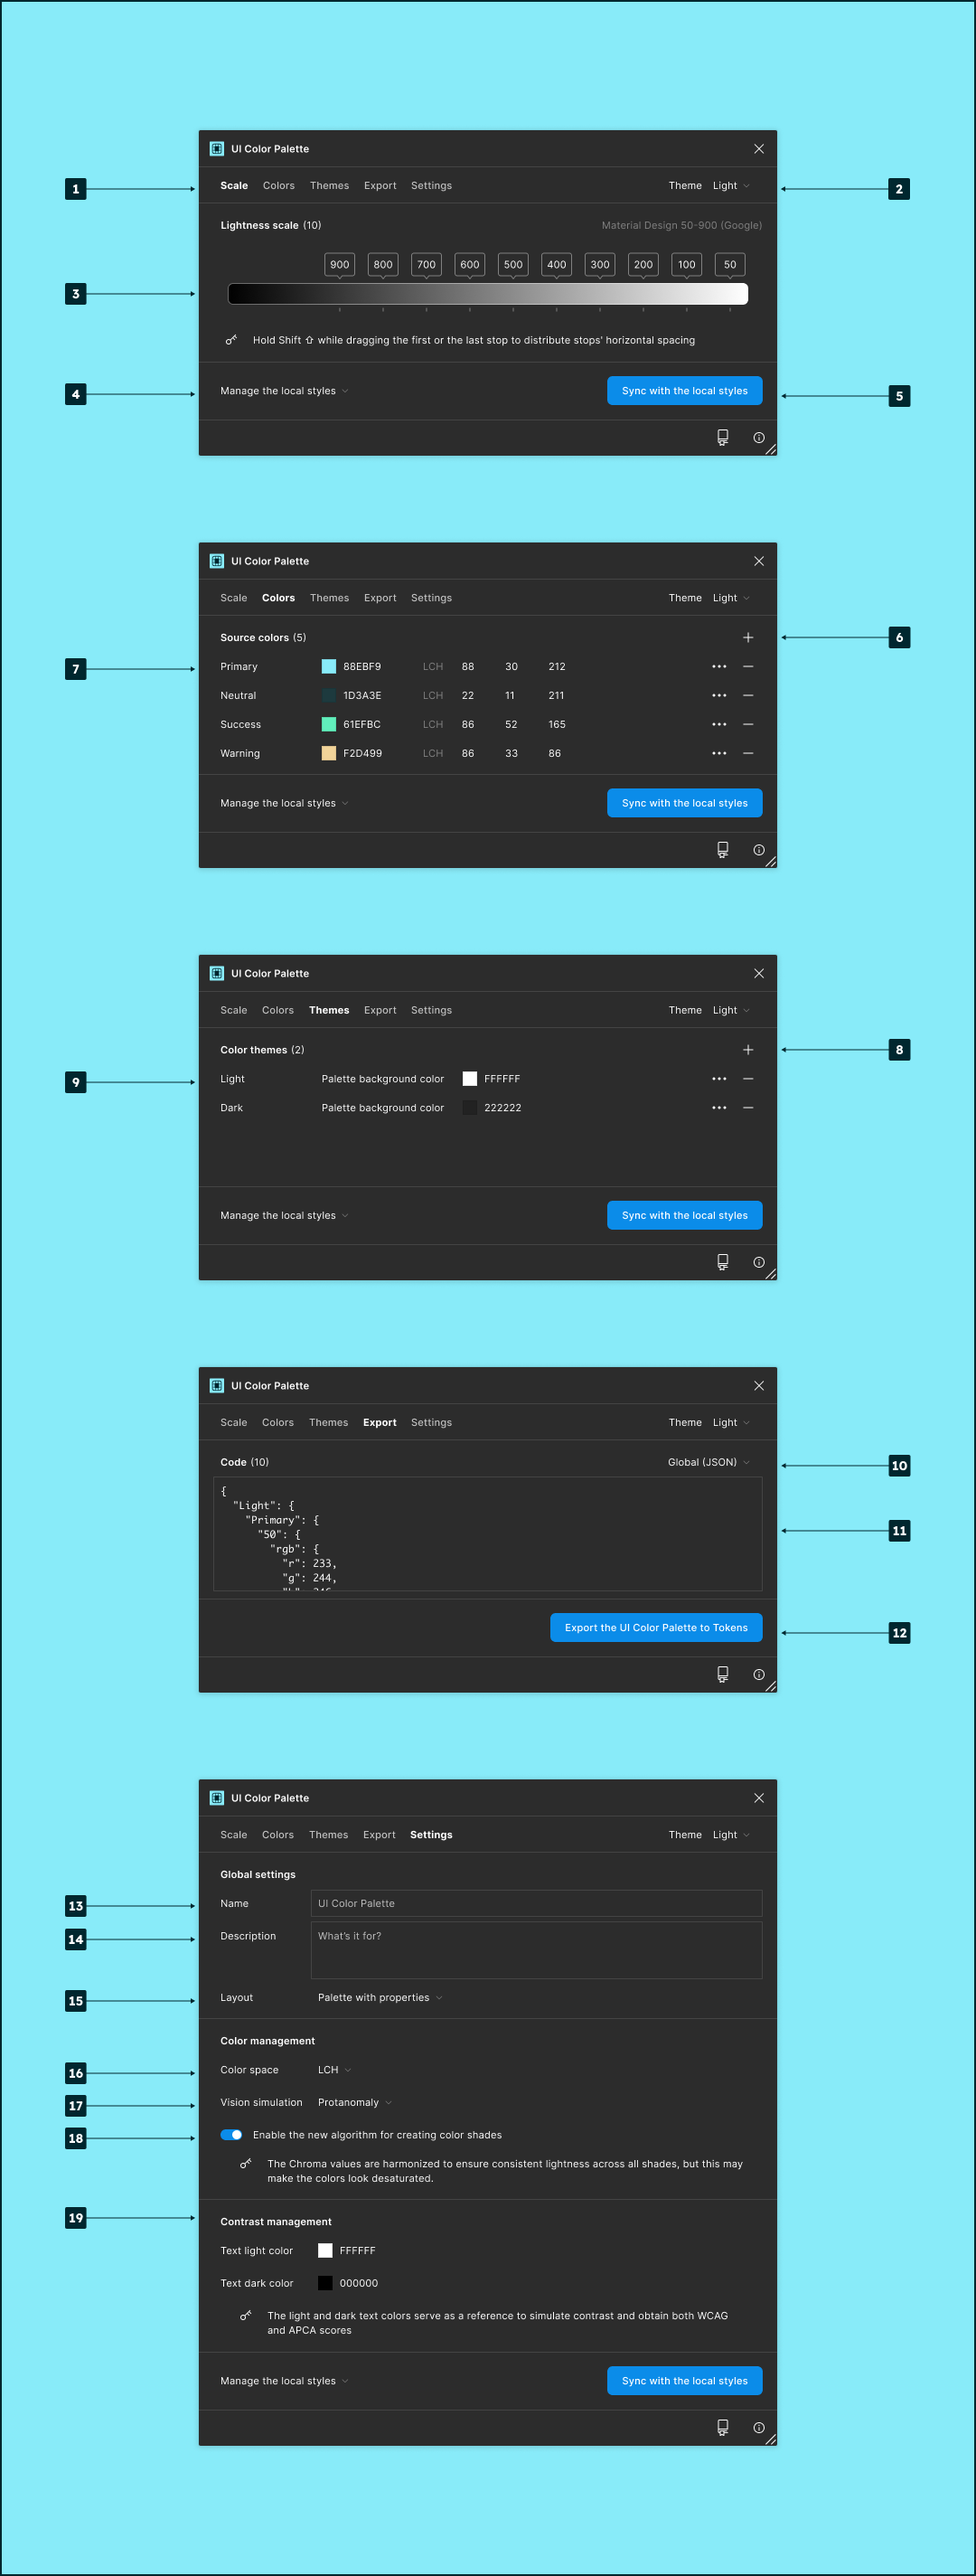
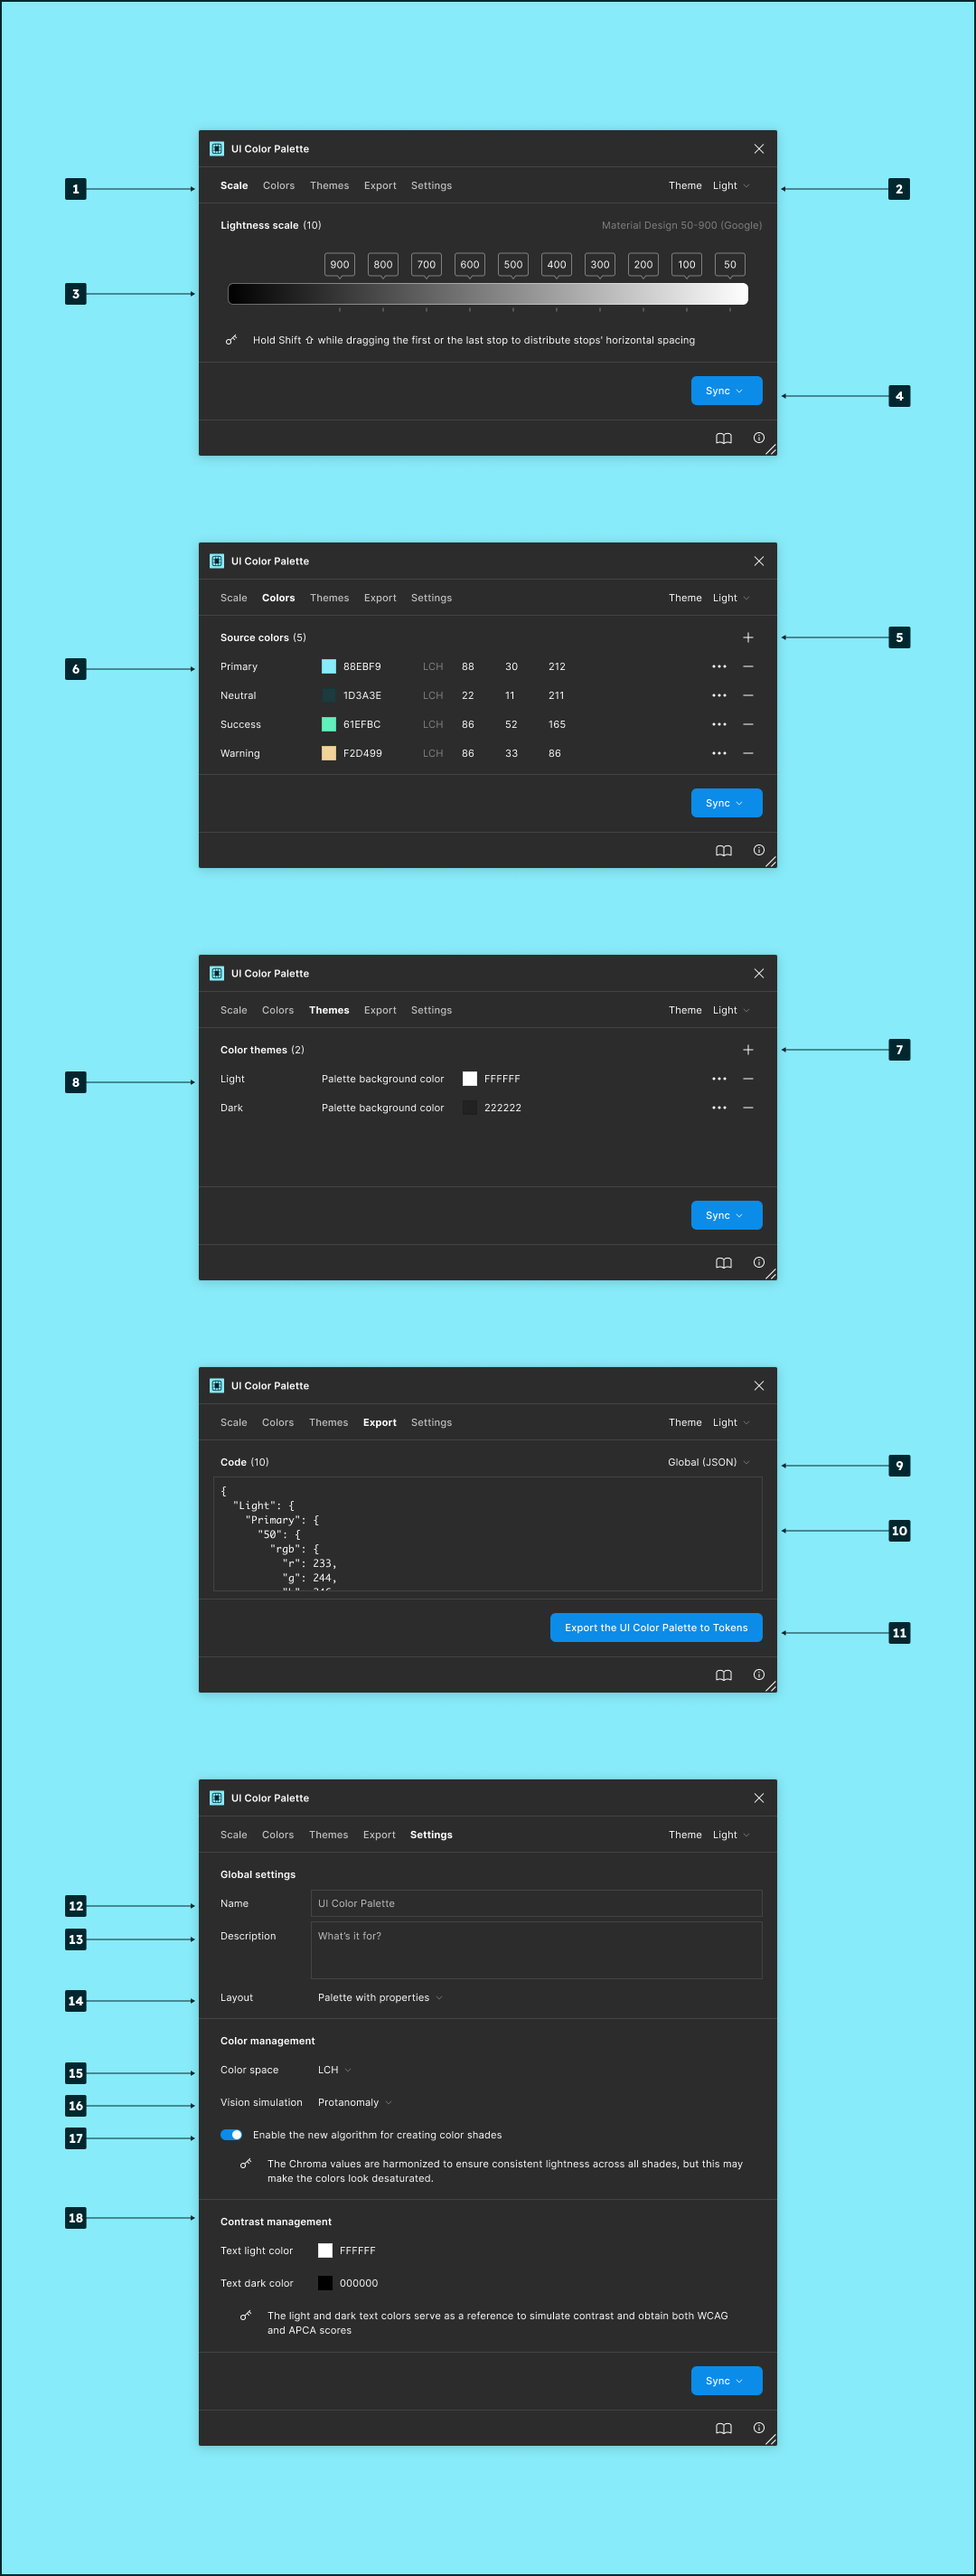
GITBOOK-33: V31

diff --git a/release-notes/ui-color-palette-31.md b/release-notes/ui-color-palette-31.md
@@ -1,0 +1,52 @@
+---
+description: Enter Dev Mode
+layout: landing
+---
+
+# UI Color Palette 31
+
+## Key Feature
+
+{% embed url="https://drive.google.com/open?id=1--9Ci4tf-DdwPz8MR1UVW0gk7UHfHeJw&usp=drive_fs" %}
+
+We have introduced the ability to export with Dev Mode. This feature allows users to export their work in a seamless and efficient manner. This is compatible with the Figma Desktop App, Browser App, and VS Code via the Figma extension!
+
+{% embed url="https://drive.google.com/open?id=1-5v5f1XQtOLIe-HkRa16hKeP51OybgTH&usp=drive_fs" %}
+
+## Improvements
+
+### 7 Day Trial Period
+
+<figure><img src="../.gitbook/assets/release_note-trial_extension.png" alt=""><figcaption></figcaption></figure>
+
+We've confidently extended the trial period to an entire week. This empowers users with ample time to explore the premium features and cement their workflows.
+
+### Import from Realtime Colors
+
+<figure><img src="../.gitbook/assets/release_note-realtime_colors.png" alt=""><figcaption></figcaption></figure>
+
+We've introduced a feature that allows users to import from Realtime Colors. This addition streamlines the process of incorporating color variations into their color references document and scaling them to a color system.
+
+## Minor Changes
+
+* A new feature allows users to specify various types of color blindness, enhancing design accessibility.
+* A dual-action button has been added, providing more functionality and control.
+* Users can now reorder their shortcuts, aiding efficiency and productivity.
+* We've enabled export to HSL, for work in the HSL color model.
+* The code zone's scroll resets after a format change, ensuring users start at the top.
+
+## Bug Fixes
+
+* A bug which interfered with palette creation using parameters has been fixed. This ensures that palette creation can proceed without problems.
+
+***
+
+Also, we want to remind you that we're always listening to your [feedback and suggestions](https://uicp.link/feedback), and we've made sure to incorporate your most recent feedback into these updates to ensure that they're tailored to your needs.
+
+You can now start a discussion to share your practices, write feedback, help the community, etc. [Get ready to write a topic!](https://uicp.link/discuss)
+
+Besides, you can always get support by sending us an email at [hello@ui-color-palette.com](mailto:hello@ui-color-palette.com) and help us improve the quality of UI Color Palette by [reporting a bug](https://uicp.link/report).
+
+Enjoy your updated UI Color Palette!
+
+UI Color Palette Team

diff --git a/edit-a-color-palette/overview.md b/edit-a-color-palette/overview.md
@@ -14,12 +14,11 @@ description: A quick glance at the controller
    5. `Settings`: Palette configuration.
 2. Select a configured `Color theme`.
 3. Adjust the `Lightness scale`'s stops.
-4. Select the action:
-   1. `Manage the local styles`: Sync the color shades with the document's local styles.
-   2. `Manage the local variables`: Sync the color shades with the documents' local variables.
-5. Create or update local styles or variables.
-6. Add a new color to the palette.
-7. Adjust the `Source colors` (from the left to the right):
+4. Run the action:
+   1. `Sync the local styles`: Sync the color shades with the document's local styles.
+   2. `Sync the local variables`: Sync the color shades with the documents' local variables.
+5. Add a new color to the palette.
+6. Adjust the `Source colors` (from the left to the right):
    1. Color name
    2. Hexadecimal code
    3. LCH
@@ -27,20 +26,20 @@ description: A quick glance at the controller
    5. Remove
    6. Hue range shifting
    7. Description
-8. Add a new theme to the palette.
-9. Adjust the `Color themes` (from the left to the right):
+7. Add a new theme to the palette.
+8. Adjust the `Color themes` (from the left to the right):
    1. Theme name
    2. Palette background color
    3. Advanced options
    4. Remove
    5. Description
-10. Export `File format`.
-11. Export `Preview`.
-12. Export the palette to the local machine.
-13. Change the palette `Name`.
-14. Change the palette `Description`.
-15. Change the palette `Layout`.
-16. Select the `Color space`.
-17. Select a `Vision simulation`.
-18. Turn color shades into new ones using the latest algorithm.
-19. Adjust the `Text light color` and `Text dark color` on the color shades.
+9. Export file format.
+10. Export preview.
+11. Export the palette to the local machine.
+12. Change the palette `Name`.
+13. Change the palette `Description`.
+14. Change the palette `Layout`.
+15. Select the `Color space`.
+16. Select a `Vision simulation`.
+17. Turn color shades into new ones using the latest algorithm.
+18. Adjust the `Text light color` and `Text dark color` on the color shades.

diff --git a/SUMMARY.md b/SUMMARY.md
@@ -28,6 +28,7 @@
 
 ## Publish and transfer a color palette
 
+* [Overview](publish-and-transfer-a-color-palette/overview.md)
 * [Sync the palette to the local styles](publish-and-transfer-a-color-palette/sync-the-palette-to-the-local-styles.md)
 * [Sync the palette to the local variables・Pro](publish-and-transfer-a-color-palette/sync-the-palette-to-the-local-variables-pro.md)
 * [Export the palette](publish-and-transfer-a-color-palette/export-the-palette.md)
@@ -47,3 +48,4 @@
   * [UI Color Palette 28](release-notes/ui-color-palette-28.md)
   * [UI Color Palette 29](release-notes/ui-color-palette-29.md)
   * [UI Color Palette 30](release-notes/ui-color-palette-30.md)
+  * [UI Color Palette 31](release-notes/ui-color-palette-31.md)

diff --git a/publish-and-transfer-a-color-palette/overview.md b/publish-and-transfer-a-color-palette/overview.md
@@ -1,0 +1,16 @@
+---
+description: A quick glance at the controller
+---
+
+# Overview
+
+<figure><img src="../.gitbook/assets/transfer_palette-overview.png" alt=""><figcaption></figcaption></figure>
+
+1. List of available palettes on the current page. This list displays compact palette information that is:
+   1. The name.
+   2. The preset name.
+   3. The number of source colors.
+   4. The number of color themes.
+2. Export file format.
+3. Export preview.
+4. Export the palette to the local machine.

diff --git a/create-a-color-palette/overview.md b/create-a-color-palette/overview.md
@@ -7,7 +7,7 @@ description: A quick glance at the controller
 <figure><img src="../.gitbook/assets/create_palette-overview.png" alt=""><figcaption></figcaption></figure>
 
 1. The `Selected colors` from the document canvas.
-2. The selected colors from a `Coolors` palette.
+2. The selected colors from a `Coolors` palette or a `Realtime Colors` simulation.
 3. Browse the inspector:
    1. `Scale`: `Lightness scale` configuration.
    2. `Settings`: Palette configuration.
